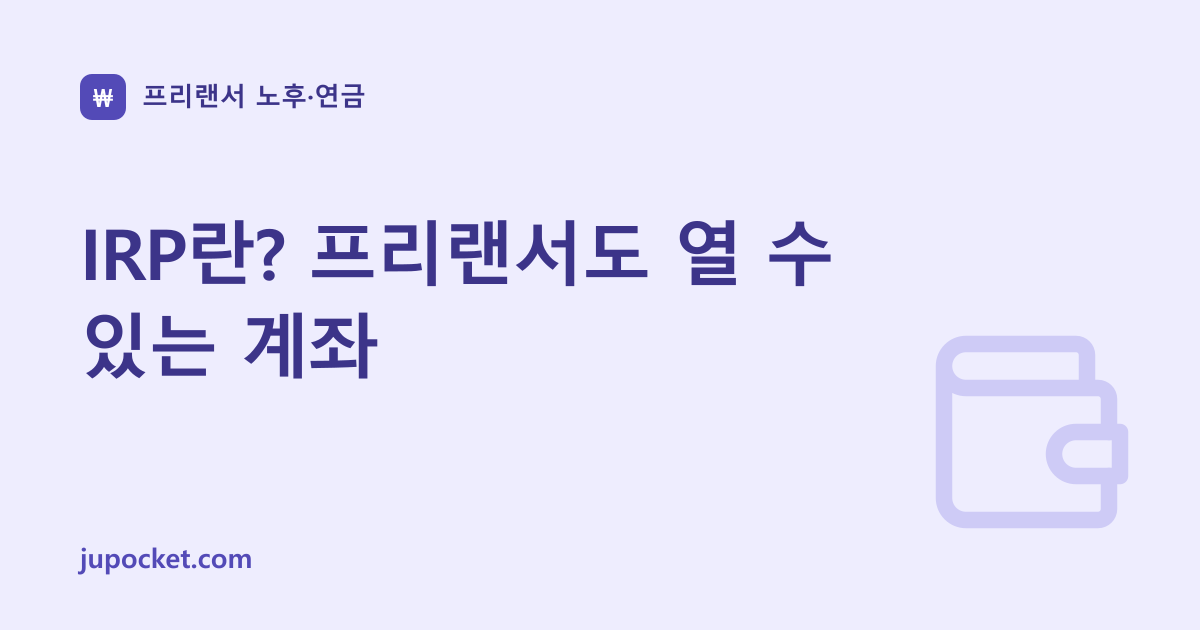
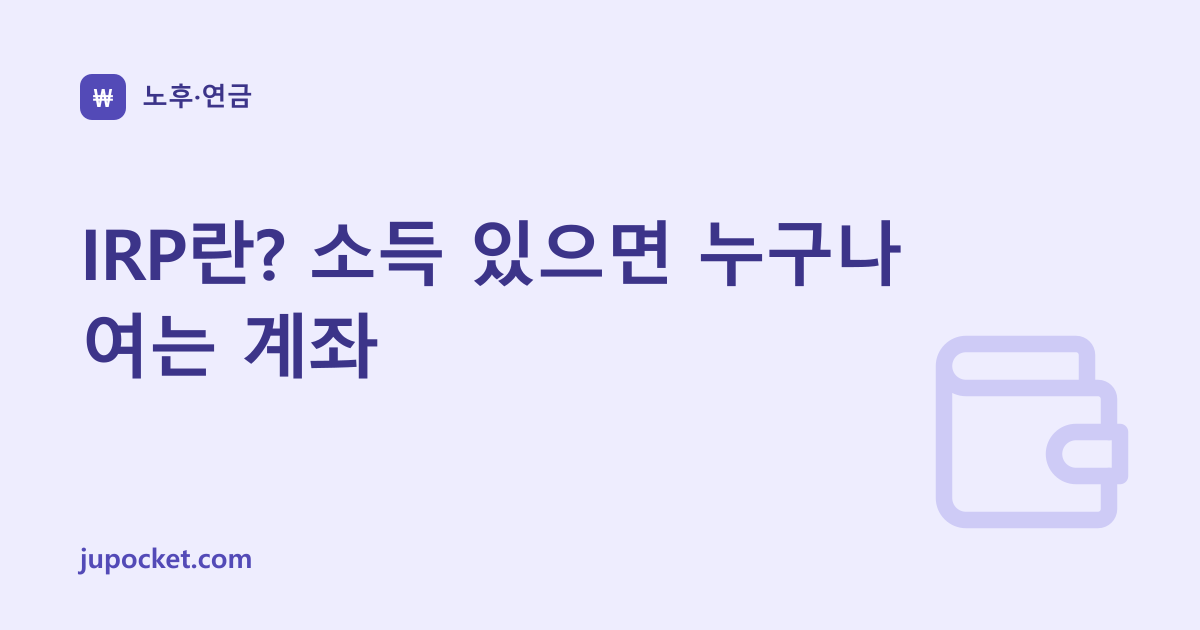
content: 신분이 아니라 상황으로 부르기 (프리랜서 98 → 69회)
홈만 "누구나"로 바꿔놓고 나머지는 그대로 뒀던 걸 정리했다. 원칙은
신분(프리랜서)이 아니라 상황(회사가 없으면 / 지역가입자는 /
사업소득자는)으로 부르는 것 — 신분으로 부르면 같은 처지의 자영업자·
사장님이 배제되지만, 상황으로 부르면 해당되는 사람이 자기 얘기로 읽는다.

바꾼 것 (이유 없이 좁히던 곳):
- 클러스터 "프리랜서 노후·연금" → "노후·연금" (사이드바·홈·허브에 노출)
- "프리랜서 노후대비" → "노후대비"
- "IRP란? 프리랜서도 열 수 있는 계좌" → "소득 있으면 누구나 여는 계좌"
  (IRP는 직장인이 더 많이 쓴다 — "프리랜서도"가 오히려 어색했다)
- "프리랜서 연금저축·IRP 세액공제" → "연금저축·IRP 세액공제"
- 본문 19곳을 상황 서술로

그대로 둔 것 (프리랜서가 실제 주제이고 검색어인 곳):
- 프리랜서 3.3% 계산기 — "프리랜서 3.3%"는 실제 대량 검색어다
- 프리랜서도 부가세를 내야 하나요? — 이 질문이 글의 존재 이유
- 퇴사하고 프리랜서 시작할 때 — 전환 상황이 주제

URL은 하나도 바꾸지 않았다. /freelancer-33/ 등은 이미 색인돼 있다.

og.ts 를 og.ts / og-pages.ts 로 갈랐다. 생성기가 순수 node 로 og.ts 를
부르는데 거기에 clusters 의존이 딸려오면서 확장자 없는 import 로 모듈
해석이 깨졌다. 제목이 바뀐 글의 og:image 도 다시 구웠다.

Changed region(s): [[0.2467, 0.3317, 0.7708, 0.4524], [0.1233, 0.1206, 0.3083, 0.181], [0.0617, 0.4825, 0.1233, 0.6032]]

diff --git a/src/data/clusters.ts b/src/data/clusters.ts
@@ -60,14 +60,14 @@ export const clusters: Cluster[] = [
   },
   {
     id: "retirement",
-    title: "프리랜서 노후·연금",
+    title: "노후·연금",
     links: [
       { href: "/national-pension-premium/", title: "국민연금 보험료 계산기 (지역가입)", kind: "calc", icon: "calculator", blurb: "월소득으로 2026년 요율(9.5%) 월·연 보험료" },
       { href: "/guide/pension-premium-2026/", title: "2026년 국민연금 보험료, 지역가입자는 얼마 내나", kind: "guide", icon: "percent" },
-      { href: "/guide/retirement-planning/", title: "프리랜서 노후대비, 순서대로 정리", kind: "guide", icon: "umbrella" },
+      { href: "/guide/retirement-planning/", title: "노후대비, 순서대로 정리", kind: "guide", icon: "umbrella" },
       { href: "/guide/national-pension-estimate/", title: "국민연금 예상수령액 조회 후 시점 정하기", kind: "guide", icon: "calendar" },
       { href: "/guide/pension-savings-tax-credit/", title: "연금저축·IRP 세액공제 한도(2026)", kind: "guide", icon: "coins" },
-      { href: "/guide/irp-account/", title: "IRP란? 프리랜서도 열 수 있는 계좌", kind: "guide", icon: "wallet" },
+      { href: "/guide/irp-account/", title: "IRP란? 소득 있으면 누구나 여는 계좌", kind: "guide", icon: "wallet" },
       { href: "/guide/retirement-fund/", title: "노후자금 얼마 있어야 하나", kind: "guide", icon: "chart" },
       { href: "/guide/severance-to-freelance/", title: "퇴사하고 프리랜서 시작할 때", kind: "guide", icon: "briefcase" },
     ],

diff --git a/src/data/linkhub.ts b/src/data/linkhub.ts
@@ -38,10 +38,10 @@ export const hubEntries: HubEntry[] = [
   { no: 11, href: "/guide/simplified-vat/", label: "간이과세 vs 일반과세, 뭐가 유리한가", kind: "guide" },
   { no: 12, href: "/guide/vat-filing/", label: "부가세 신고, 언제 어떻게 하나", kind: "guide" },
   { no: 13, href: "/guide/pension-premium-2026/", label: "2026년 국민연금 보험료, 얼마 내나", kind: "guide" },
-  { no: 14, href: "/guide/retirement-planning/", label: "프리랜서 노후대비, 순서대로", kind: "guide" },
+  { no: 14, href: "/guide/retirement-planning/", label: "노후대비, 순서대로 정리", kind: "guide" },
   { no: 15, href: "/guide/national-pension-estimate/", label: "국민연금 예상수령액과 수령 시점", kind: "guide" },
   { no: 16, href: "/guide/pension-savings-tax-credit/", label: "연금저축·IRP 세액공제 한도 (2026)", kind: "guide" },
-  { no: 17, href: "/guide/irp-account/", label: "IRP란? 프리랜서도 열 수 있는 계좌", kind: "guide" },
+  { no: 17, href: "/guide/irp-account/", label: "IRP란? 소득 있으면 누구나", kind: "guide" },
   { no: 18, href: "/guide/retirement-fund/", label: "노후자금 얼마 있어야 하나", kind: "guide" },
   { no: 19, href: "/guide/severance-to-freelance/", label: "퇴사하고 프리랜서 시작할 때", kind: "guide" },
 ];

diff --git a/src/lib/og-pages.ts b/src/lib/og-pages.ts
@@ -1,0 +1,24 @@
+/**
+ * 어떤 경로에 전용 OG 이미지가 있는가.
+ *
+ * clusters.ts 를 읽어야 해서 og.ts 와 분리해 둔다. og.ts 는 생성기
+ * (social/render-og.mjs)가 순수 node 로 불러오는데, 거기서 clusters 까지
+ * 딸려오면 확장자 없는 import 때문에 모듈 해석이 깨진다.
+ */
+import { clusters } from "../data/clusters";
+import { ogSlug } from "./og";
+
+const generated = new Set<string>([
+  "home",
+  ...clusters.flatMap((c) => c.links.map((l) => ogSlug(l.href))),
+]);
+
+/**
+ * 생성기는 clusters 의 링크와 홈만 굽는다. /privacy/, /link/ 처럼 굽지
+ * 않는 페이지가 자기 이름의 이미지를 가리키면 공유했을 때 깨진 채로
+ * 나가므로, 없으면 홈 이미지로 떨어뜨린다.
+ */
+export function ogPathFor(path: string): string {
+  const slug = ogSlug(path);
+  return `/og/${generated.has(slug) ? slug : "home"}.png`;
+}

diff --git a/src/lib/og.ts b/src/lib/og.ts
@@ -19,21 +19,3 @@ export function ogPath(path: string): string {
   return `/og/${ogSlug(path)}.png`;
 }
 
-/**
- * 이 경로에 전용 OG 이미지가 있는가.
- *
- * 생성기는 clusters.ts 의 링크와 홈만 굽는다. /privacy/, /link/ 처럼
- * 굽지 않는 페이지가 자기 이름의 이미지를 가리키면 공유했을 때 깨진 채로
- * 나가므로, 없으면 홈 이미지로 떨어뜨린다.
- */
-import { clusters } from "../data/clusters";
-
-const generated = new Set<string>([
-  "home",
-  ...clusters.flatMap((c) => c.links.map((l) => ogSlug(l.href))),
-]);
-
-export function ogPathFor(path: string): string {
-  const slug = ogSlug(path);
-  return `/og/${generated.has(slug) ? slug : "home"}.png`;
-}

diff --git a/src/lib/__tests__/og.test.ts b/src/lib/__tests__/og.test.ts
@@ -1,5 +1,6 @@
 import { describe, it, expect } from "vitest";
-import { ogSlug, ogPath, ogPathFor } from "../og";
+import { ogSlug, ogPath } from "../og";
+import { ogPathFor } from "../og-pages";
 
 describe("ogSlug", () => {
   it("루트는 home", () => {
